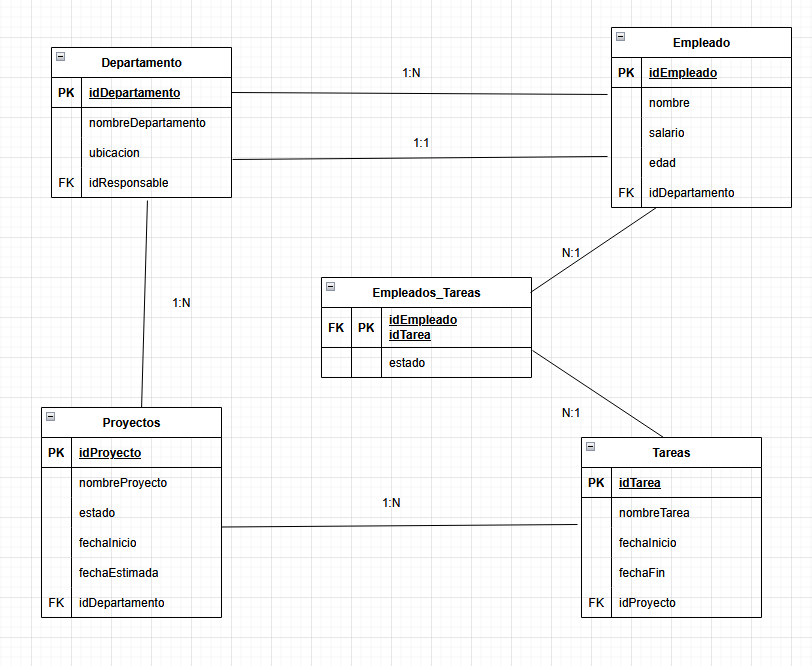
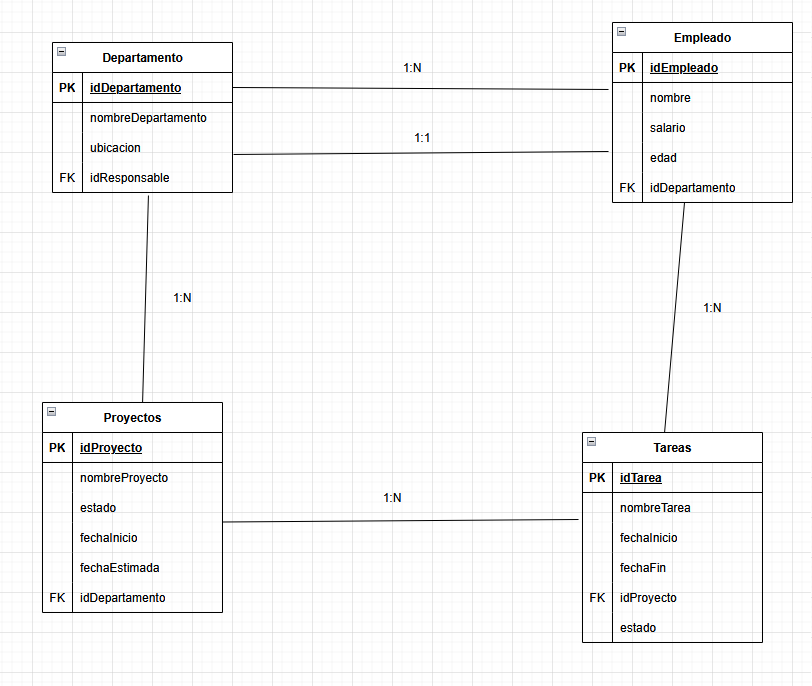
NTT_002: Tabla intermedia "EmpleadosTareas" eliminada,  actualizado modelo entidad-relación
La relación ya no queda N:M, ahora es "Empleado 1----N Tareas"

diff --git a/src/main/java/com/nttdata_empresa/models/Tareas.java b/src/main/java/com/nttdata_empresa/models/Tareas.java
@@ -1,7 +1,6 @@
 package com.nttdata_empresa.models;
 
 import java.util.Date;
-import java.util.List;
 
 import jakarta.persistence.Column;
 import jakarta.persistence.Entity;
@@ -10,7 +9,6 @@ import jakarta.persistence.GenerationType;
 import jakarta.persistence.Id;
 import jakarta.persistence.JoinColumn;
 import jakarta.persistence.ManyToOne;
-import jakarta.persistence.OneToMany;
 import jakarta.persistence.Table;
 import lombok.AllArgsConstructor;
 import lombok.Getter;
@@ -38,11 +36,15 @@ public class Tareas
     @Column
     private Date fechaFin;
     
+    @Column
+    private String estado;
+    
     @ManyToOne
     @JoinColumn(name = "idProyecto")
     private Proyectos proyecto;
    
-    @OneToMany(mappedBy = "tarea")
-    private List<EmpleadosTareas> empleadoTareas;
+    @ManyToOne
+    @JoinColumn(name = "idEmpleado")
+    private Empleado empleado;
     
 }

diff --git a/src/main/java/com/nttdata_empresa/models/Empleado.java b/src/main/java/com/nttdata_empresa/models/Empleado.java
@@ -44,7 +44,7 @@ public class Empleado
     private Departamento departamento;
 
     @OneToMany(mappedBy = "empleado")
-    private List<EmpleadosTareas> empleadoTareas;
+    private List<Tareas> tareas;
     
     @OneToOne(mappedBy = "responsable")
     private Departamento departamentoResponsable;
